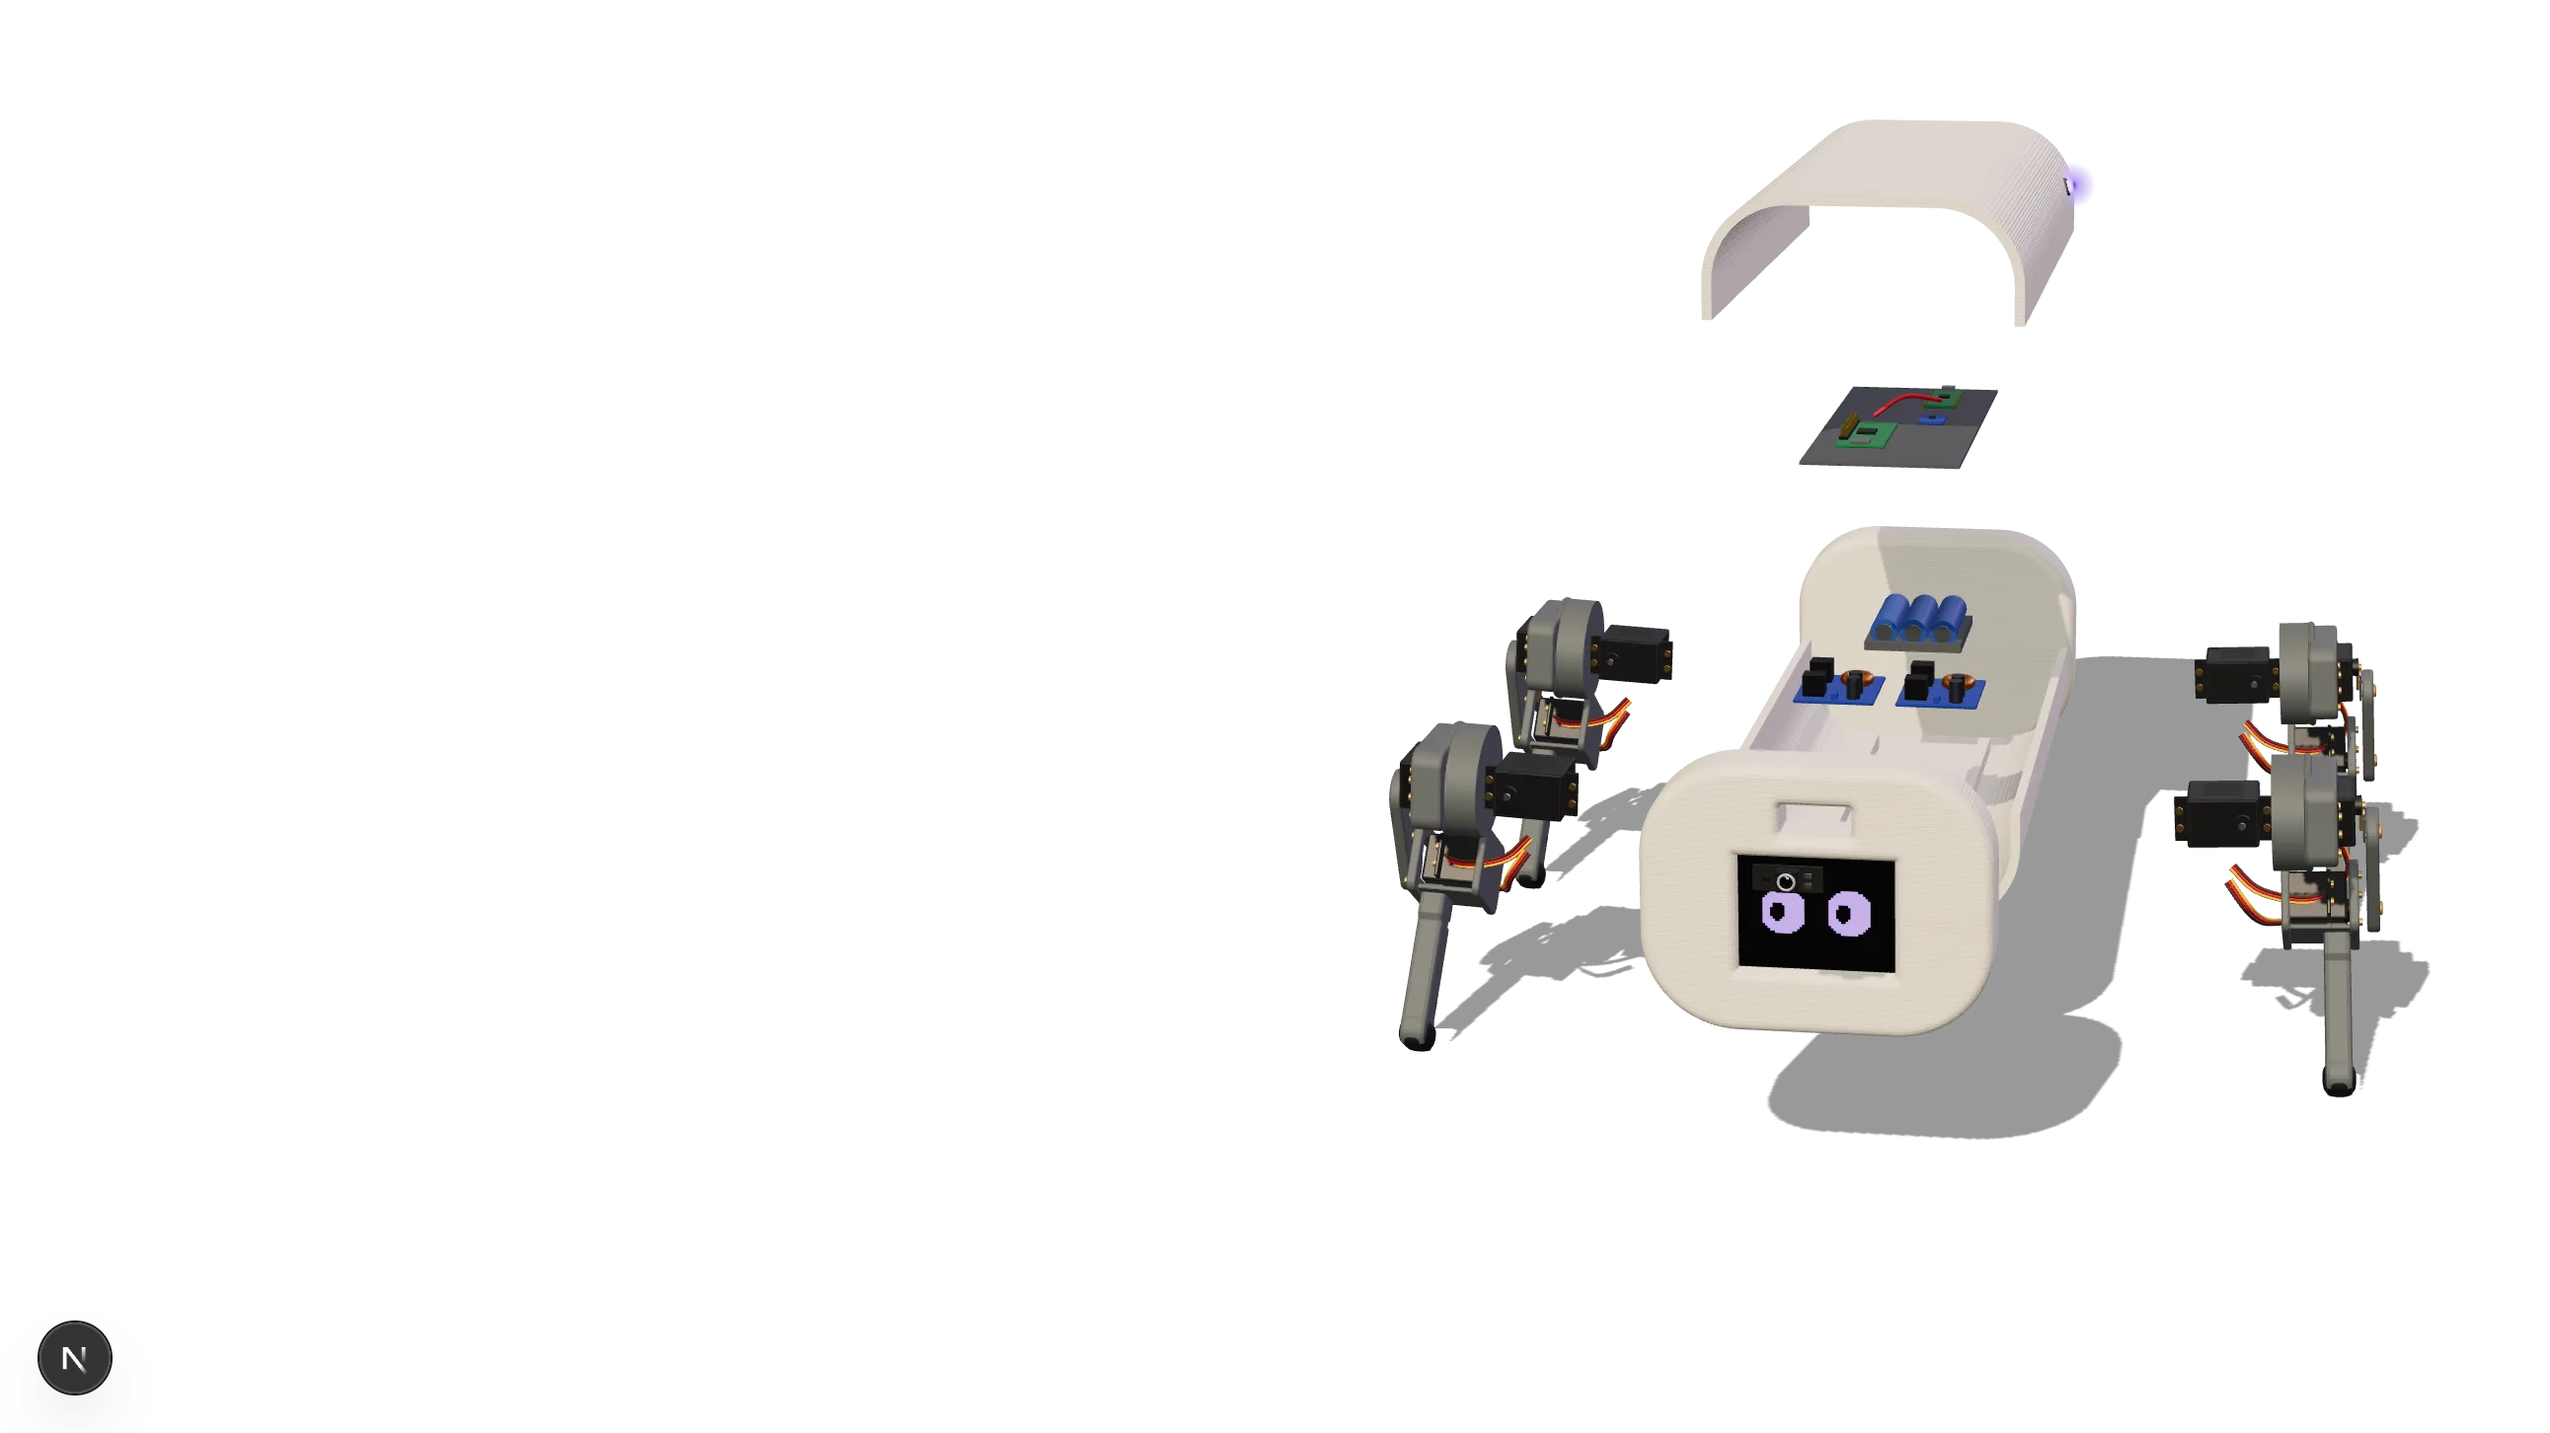
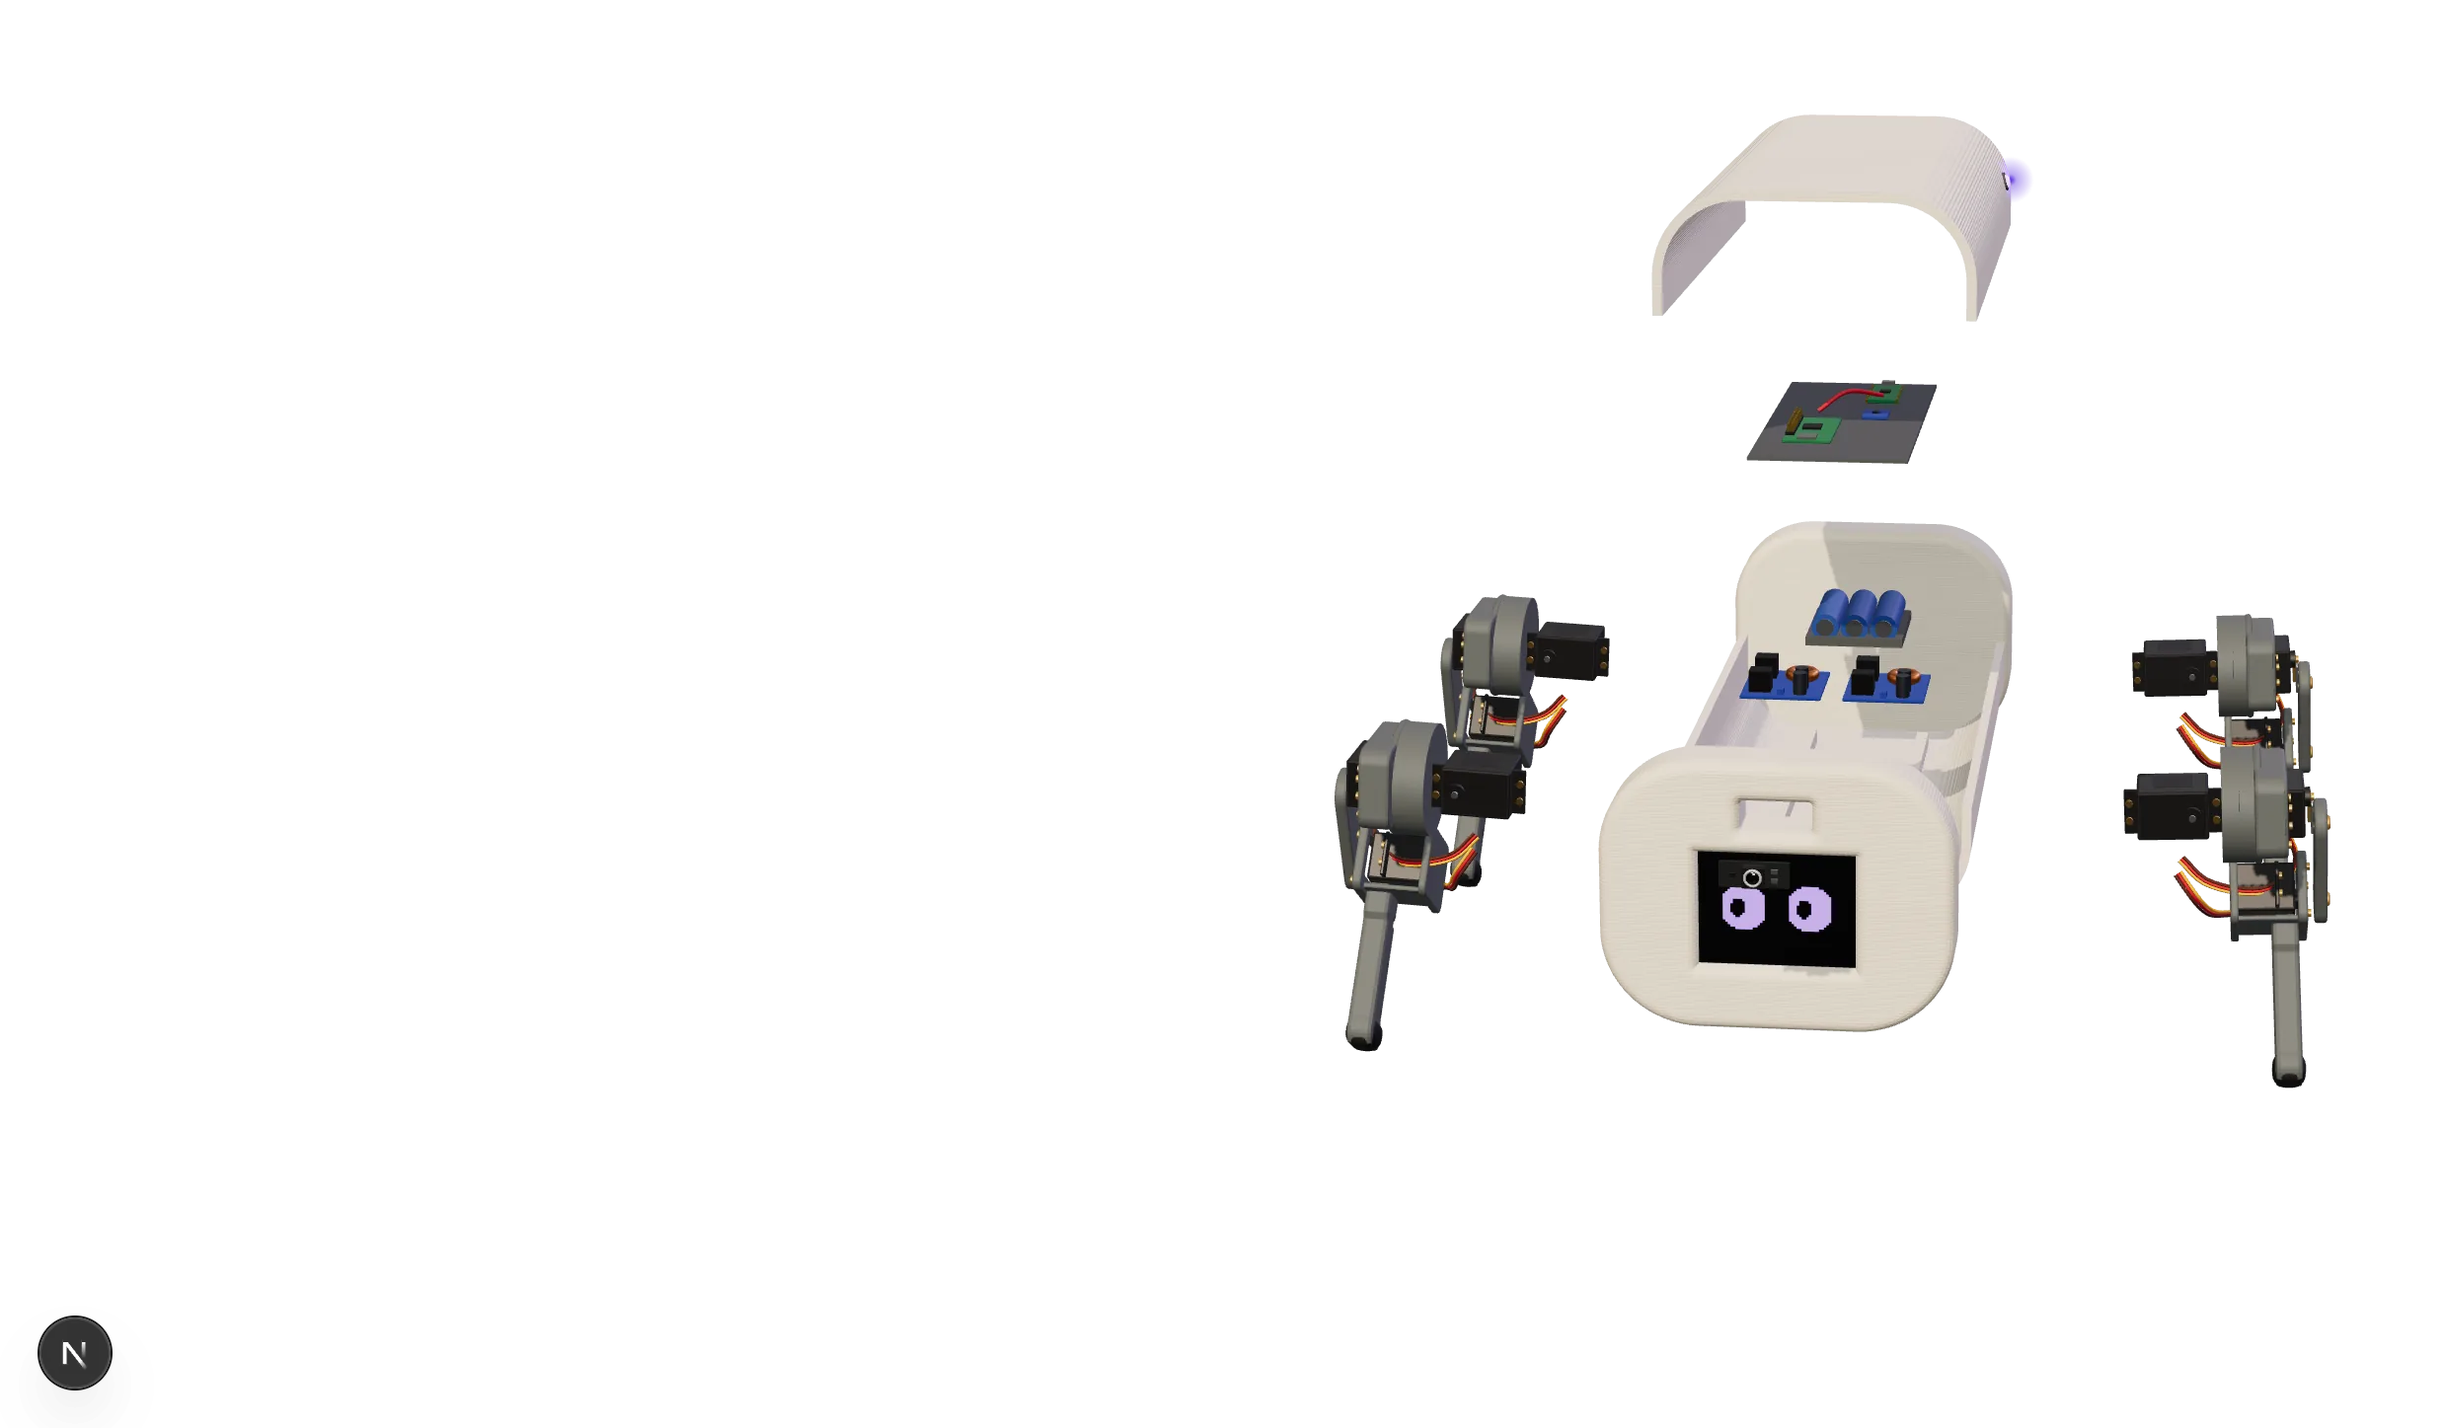
v6 round 4: exploded framing, x-ray tour card, quieter filters
Camera blends from an assembled fit to an exploded fit and dollies toward the
active part; unselected parts become a flat violet ghost with the selected one
lifted; contact shadow fades out as the robot explodes. On desktop the heading
yields to a large tour card once the teardown holds. Filters restyled as an
editorial text row; work-row still re-captured tight and contained.

Claude-Session: https://claude.ai/code/session_018SZ3sH4Ueqtc27yJGWjH1i

diff --git a/src/components/robopet/RoboPetExploded.tsx b/src/components/robopet/RoboPetExploded.tsx
@@ -118,12 +118,11 @@ export function RoboPetExploded() {
       const rim = new THREE.DirectionalLight("#c4b5fd", 1.6);
       rim.position.set(3.5, 2.5, -3.5);
       scene.add(key, rim, new THREE.HemisphereLight("#e8ecff", "#0a0a10", 0.25));
-      const floor = new THREE.Mesh(
-        new THREE.CircleGeometry(5, 48),
-        new THREE.ShadowMaterial({ opacity: 0.4 }),
-      );
+      const floorMaterial = new THREE.ShadowMaterial({ opacity: 0.4, depthWrite: false });
+      const floor = new THREE.Mesh(new THREE.CircleGeometry(5, 48), floorMaterial);
       floor.rotation.x = -Math.PI / 2;
       floor.receiveShadow = true;
+      floor.renderOrder = -1;
       scene.add(floor);
 
       const model = createRoboPetModel({ shadows: true });
@@ -134,14 +133,21 @@ export function RoboPetExploded() {
       model.position.x -= center.x;
       model.position.z -= center.z;
 
-      // Frame the fully exploded silhouette, then reassemble.
+      // Measure both states: the camera blends from an assembled fit (robot fills the
+      // stage) to an exploded fit (every part in frame) as the teardown progresses.
+      const assembledSphere = new THREE.Box3()
+        .setFromObject(model)
+        .getBoundingSphere(new THREE.Sphere());
       setRoboPetExplode(model, 1);
       const explodedBox = new THREE.Box3().setFromObject(model);
       const sphere = explodedBox.getBoundingSphere(new THREE.Sphere());
       const halfWidth = explodedBox.getSize(new THREE.Vector3()).x / 2;
+      const partCenters = new Map<PartKey, import("three").Vector3>();
       setRoboPetExplode(model, 0);
 
-      const state = { explode: motion ? 0 : 1, yaw: motion ? -0.35 : -0.15 };
+      const state = { explode: motion ? 0 : 1, yaw: motion ? -0.35 : -0.15, focus: 0 };
+      const focusTarget = new THREE.Vector3();
+      const fits = { assembled: 1, exploded: 1, portrait: false };
       const camera = new THREE.PerspectiveCamera(30, 1, 0.1, 100);
 
       const partOf = (object: import("three").Object3D | null) => {
@@ -154,8 +160,15 @@ export function RoboPetExploded() {
       const keyOf = (id: string | null) =>
         PARTS.find((part) => (part.ids as readonly string[]).includes(id ?? ""))?.key ?? null;
 
-      // Dim everything except the chosen subsystem so it reads like a callout.
-      const original = new Map<import("three").Material, number>();
+      // Unselected parts become a flat violet ghost (an x-ray, not muddy glass); the
+      // selected one keeps its real material with a faint violet lift.
+      const ghost = new THREE.MeshBasicMaterial({
+        color: "#a78bfa",
+        transparent: true,
+        opacity: 0.07,
+        depthWrite: false,
+      });
+      const realMaterial = new Map<import("three").Mesh, import("three").Mesh["material"]>();
       const meshParts = new Map<import("three").Mesh, PartKey | null>();
       // The model shares materials across parts (one PLA for shell, chassis and face), so
       // give each subsystem its own copies; otherwise dimming one part dims them all.
@@ -173,23 +186,46 @@ export function RoboPetExploded() {
         mesh.material = Array.isArray(mesh.material)
           ? mesh.material.map((material) => cloneFor(material, key))
           : cloneFor(mesh.material, key);
+        realMaterial.set(mesh, mesh.material);
       });
+      // Part centres in the exploded pose, for the tour's camera dolly.
+      setRoboPetExplode(model, 1);
+      PARTS.forEach((part) => {
+        const box = new THREE.Box3();
+        meshParts.forEach((key, mesh) => key === part.key && box.expandByObject(mesh));
+        if (!box.isEmpty()) partCenters.set(part.key, box.getCenter(new THREE.Vector3()));
+      });
+      setRoboPetExplode(model, 0);
+      let focusTween: gsap.core.Tween | null = null;
       let highlighted: PartKey | null = null;
       const applyHighlight = (key: PartKey | null) => {
         if (key === highlighted) return;
         highlighted = key;
         meshParts.forEach((partKey, mesh) => {
           const dim = key !== null && partKey !== key;
+          mesh.material = dim ? ghost : realMaterial.get(mesh)!;
+          mesh.castShadow = !dim;
           const materials = Array.isArray(mesh.material) ? mesh.material : [mesh.material];
           materials.forEach((material) => {
-            if (!original.has(material)) original.set(material, material.opacity);
-            material.transparent = dim || original.get(material)! < 1;
-            material.opacity = dim ? 0.22 : original.get(material)!;
-            material.depthWrite = !dim;
-            // Toggling transparency changes the shader program.
-            material.needsUpdate = true;
+            const lit = material as import("three").MeshStandardMaterial;
+            if (!lit.isMeshStandardMaterial || dim) return;
+            if (lit.userData.baseEmissive === undefined) {
+              lit.userData.baseEmissive = lit.emissive.getHex();
+              lit.userData.baseIntensity = lit.emissiveIntensity;
+            }
+            const lift = key !== null && partKey === key && lit.userData.baseEmissive === 0;
+            lit.emissive.setHex(lift ? 0x6d28d9 : lit.userData.baseEmissive);
+            lit.emissiveIntensity = lift ? 0.22 : lit.userData.baseIntensity;
           });
-          mesh.castShadow = !dim;
+        });
+        // Dolly toward the selected subsystem so even small boards read clearly.
+        if (key && partCenters.has(key)) focusTarget.copy(partCenters.get(key)!);
+        focusTween?.kill();
+        focusTween = gsap.to(state, {
+          focus: key ? 1 : 0,
+          duration: 0.9,
+          ease: "power3.out",
+          onUpdate: render,
         });
         render();
       };
@@ -207,19 +243,37 @@ export function RoboPetExploded() {
         const usable = portrait ? 0.92 : 0.74; // desktop leaves the copy column free
         // Phones are width-bound and the teardown is mostly lateral, so fit its width
         // directly; the sphere fit wastes most of a narrow screen.
-        const dist = portrait
+        fits.portrait = portrait;
+        fits.exploded = portrait
           ? (halfWidth * 1.08) / Math.tan(hFov / 2) + sphere.radius * 0.35
           : sphere.radius / Math.sin(Math.min(vFov * 1.02, hFov * usable) / 2);
-        camera.position.set(0, sphere.center.y + dist * 0.26, dist);
-        camera.lookAt(0, sphere.center.y, 0);
-        camera.setViewOffset(w, h, portrait ? 0 : -w * 0.17, portrait ? h * 0.1 : -h * 0.02, w, h);
-        camera.updateProjectionMatrix();
+        // Assembled: the robot fills a little over half the stage height.
+        fits.assembled = Math.min(
+          fits.exploded,
+          assembledSphere.radius / Math.sin(Math.min(vFov * 0.6, hFov * usable * 0.75) / 2),
+        );
+        camera.setViewOffset(w, h, portrait ? 0 : -w * 0.15, portrait ? h * 0.1 : -h * 0.02, w, h);
         render();
       };
 
+      const lookAt = new THREE.Vector3();
       function render() {
         setRoboPetExplode(model, state.explode);
         pivot.rotation.y = state.yaw;
+        floorMaterial.opacity = 0.4 * (1 - Math.min(1, state.explode * 1.6));
+        const e = THREE.MathUtils.smoothstep(state.explode, 0, 1);
+        let dist = THREE.MathUtils.lerp(fits.assembled, fits.exploded, e);
+        const centerY = THREE.MathUtils.lerp(assembledSphere.center.y, sphere.center.y, e);
+        lookAt.set(0, centerY, 0);
+        if (state.focus > 0) {
+          // Part centres are in model space; rotate them with the pivot's yaw.
+          const target = focusTarget.clone().applyAxisAngle(new THREE.Vector3(0, 1, 0), state.yaw);
+          lookAt.lerp(target, 0.4 * state.focus);
+          dist *= 1 - 0.2 * state.focus;
+        }
+        camera.position.set(lookAt.x, lookAt.y + dist * 0.26, lookAt.z + dist);
+        camera.lookAt(lookAt);
+        camera.updateProjectionMatrix();
         renderer.render(scene, camera);
       }
 
@@ -260,8 +314,9 @@ export function RoboPetExploded() {
               onUpdate: (self) => {
                 // After the teardown holds, scrolling walks through each subsystem until
                 // the visitor picks one themselves.
-                if (userPicked.current) return;
                 const t = (self.progress - EXPLODE_END) / (1 - EXPLODE_END);
+                section.dataset.phase = t < 0 ? "build" : "tour";
+                if (userPicked.current) return;
                 const next =
                   t < 0 ? null : PARTS[Math.min(PARTS.length - 1, Math.floor(t * PARTS.length))].key;
                 if (next !== lastTour) {
@@ -285,6 +340,9 @@ export function RoboPetExploded() {
         ctx?.revert();
         resizeObserver.disconnect();
         renderer.domElement.removeEventListener("pointerup", onClick);
+        focusTween?.kill();
+        delete section.dataset.phase;
+        ghost.dispose();
         disposeRoboPetModel(model);
         perPart.forEach((material) => material.dispose());
         floor.geometry.dispose();
@@ -340,6 +398,20 @@ export function RoboPetExploded() {
             A procedural Three.js reconstruction, built in code from the concept render.{" "}
             {live ? "Scroll to pull it apart, or pick a part." : "Pick a part to see what it does."}
           </p>
+        </div>
+        {/* Desktop tour card: a large visual twin of the detail panel that takes over the
+            heading's slot once the teardown holds. The panel below stays the live region. */}
+        <div className="exploded-tour site-shell" aria-hidden="true">
+          {activePart && (
+            <div key={activePart.key}>
+              <span className="micro">
+                {String(PARTS.indexOf(activePart) + 1).padStart(2, "0")} /{" "}
+                {String(PARTS.length).padStart(2, "0")}
+              </span>
+              <p className="exploded-tour-title">{activePart.label}</p>
+              <p>{activePart.detail}</p>
+            </div>
+          )}
         </div>
         <div ref={mountRef} className="exploded-canvas" aria-hidden="true">
           {failed && (

diff --git a/src/app/robopet.css b/src/app/robopet.css
@@ -408,3 +408,57 @@ html[data-film="on"] .reading-progress {
   height: 100%;
   object-fit: contain;
 }
+
+/* Tour phase (desktop): the heading yields to a large card for the active part. */
+.exploded-tour {
+  display: none;
+}
+@media (min-width: 761px) {
+  .exploded[data-mode="scrub"] .exploded-copy,
+  .exploded[data-mode="scrub"] .exploded-tour > div {
+    transition:
+      opacity 0.5s,
+      transform 0.6s cubic-bezier(0.16, 1, 0.3, 1);
+  }
+  .exploded[data-mode="scrub"] .exploded-tour {
+    display: block;
+    position: absolute;
+    inset-inline: 0;
+    top: max(120px, 15vh);
+    margin: 0 auto;
+    pointer-events: none;
+    z-index: 1;
+  }
+  .exploded-tour > div {
+    max-width: 380px;
+    opacity: 0;
+    transform: translateY(18px);
+  }
+  .exploded-tour .micro {
+    color: var(--accent);
+  }
+  .exploded-tour-title {
+    font-size: clamp(40px, 4.2vw, 64px);
+    font-weight: 500;
+    line-height: 1;
+    letter-spacing: -0.05em;
+    margin: 14px 0 18px;
+  }
+  .exploded-tour p:not(.exploded-tour-title) {
+    color: var(--muted);
+    line-height: 1.7;
+    font-size: 16px;
+  }
+  .exploded[data-phase="tour"] .exploded-copy {
+    opacity: 0;
+    transform: translateY(-18px);
+  }
+  .exploded[data-phase="tour"] .exploded-tour > div {
+    opacity: 1;
+    transform: none;
+  }
+  /* Opacity, not visibility: the panel stays the screen-reader live region. */
+  .exploded[data-phase="tour"] .exploded-detail {
+    opacity: 0;
+  }
+}

diff --git a/src/app/projects.css b/src/app/projects.css
@@ -734,3 +734,36 @@
 html[data-motion="paused"] .notch-line i {
   animation: none;
 }
+
+/* Filters as a quiet editorial text row rather than SaaS pills. */
+.projects-section .filter-row {
+  gap: 4px 22px;
+}
+.projects-section .filter-row button {
+  min-height: 44px;
+  padding: 8px 0;
+  border: 0;
+  border-radius: 0;
+  background: none;
+  color: var(--muted);
+  font-size: 12px;
+  letter-spacing: 0.08em;
+  text-transform: uppercase;
+  box-shadow: inset 0 -1px 0 transparent;
+  transition:
+    color 0.2s,
+    box-shadow 0.2s;
+}
+.projects-section .filter-row button:hover {
+  color: var(--text);
+}
+.projects-section .filter-row button[aria-pressed="true"] {
+  color: var(--text);
+  background: none;
+  box-shadow: inset 0 -1px 0 var(--accent);
+}
+.feature-photo img[src*="exploded-still"] {
+  object-fit: contain;
+  object-position: 50% 50%;
+  padding: 6%;
+}
